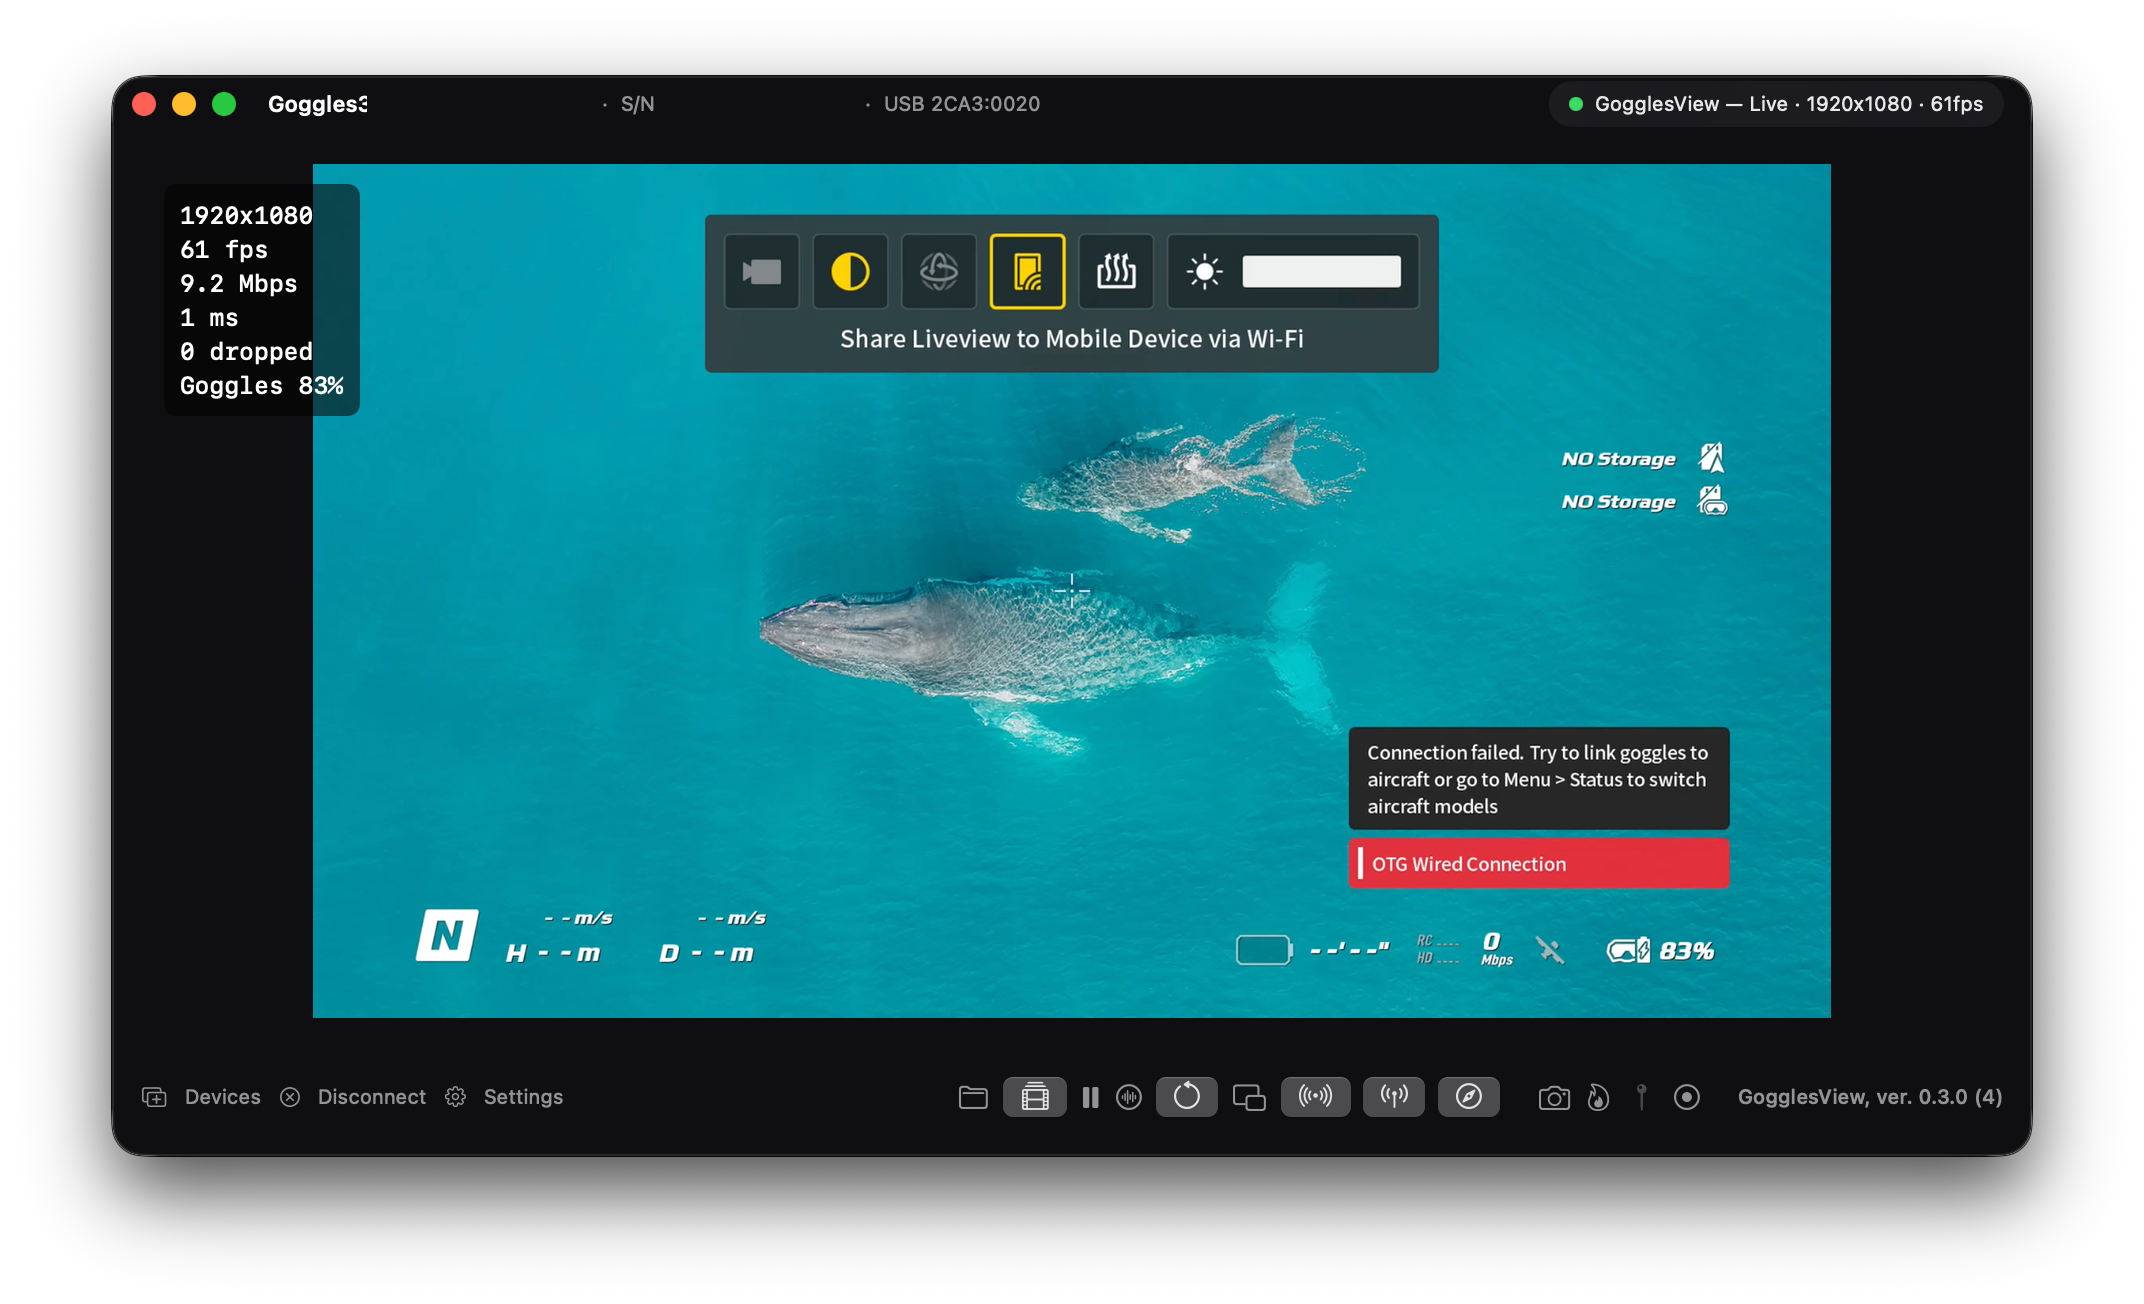
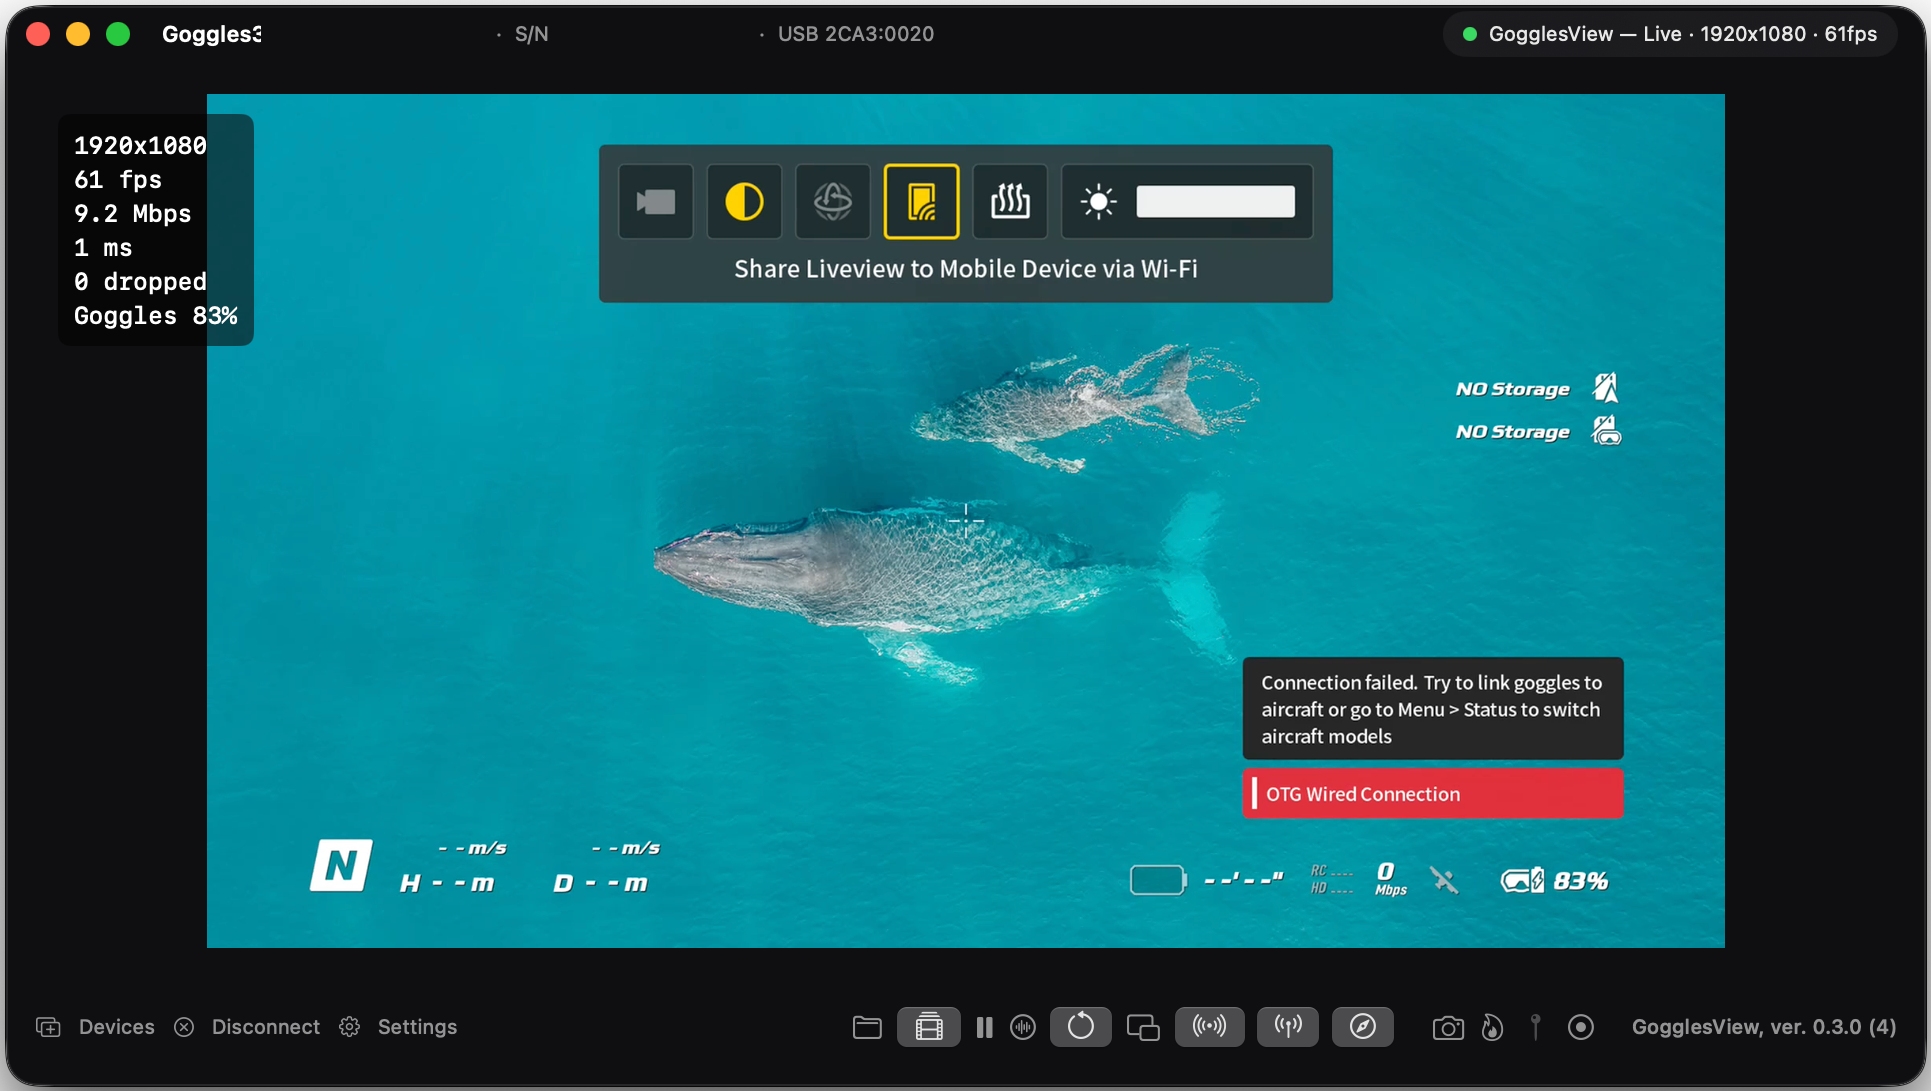
Website: add settings and waiting-for-keyframe screenshots, crop screenshot margins, tighten spacing

diff --git a/site/index.html b/site/index.html
@@ -35,8 +35,8 @@
     --t-xl: 2.5rem;
     --t-display: clamp(3.5rem, 8vw, 6.75rem);
 
-    --gap: 12px;
-    --r-panel: 20px;                    /* outer */
+    --gap: 10px;
+    --r-panel: 18px;                    /* outer */
     --r-inner: calc(var(--r-panel) - var(--gap));  /* concentric: outer minus gap */
     --r-tile: 14px;
 
@@ -72,7 +72,7 @@
   .top nav a:hover { color: var(--ink); text-decoration: underline; }
 
   /* hero: copy offset to the left and anchored low, the picture bleeding off the right edge */
-  .hero { min-height: min(calc(100dvh - 60px), 620px); padding-top: 56px; display: grid; grid-template-columns: minmax(0, 7fr) minmax(0, 5fr); gap: 48px; align-items: end; padding-bottom: 40px; }
+  .hero { min-height: min(calc(100dvh - 60px), 560px); padding-top: 40px; display: grid; grid-template-columns: minmax(0, 7fr) minmax(0, 5fr); gap: 48px; align-items: end; padding-bottom: 40px; }
   .hero h1 { font-size: var(--t-display); margin-bottom: 24px; }
   .hero .lede { font-size: var(--t-m); line-height: 1.4; max-width: 30ch; margin-bottom: 28px; }
   .dl { display: inline-flex; align-items: center; gap: 12px; background: var(--ink); color: var(--on-ink); font-weight: 500; text-decoration: none; padding: 14px 20px; border-radius: 10px; transition: background-color .15s; }
@@ -85,7 +85,7 @@
   .screen::after { content: ""; position: absolute; inset: 0; background: var(--grain-dark); mix-blend-mode: overlay; pointer-events: none; }
   .screen img { display: block; width: 100%; height: auto; border-radius: var(--r-inner); }
 
-  section { padding: 96px 0 0; }
+  section { padding: 72px 0 0; }
   h2 { font-size: var(--t-xl); margin-bottom: 20px; }
   @media (min-width: 900px) { h2 { font-size: 3.75rem; } }
 
@@ -130,6 +130,12 @@
   ol li::before { content: counter(s); font-family: "Big Shoulders Display", sans-serif; font-weight: 700; font-size: var(--t-l); line-height: 1.1; color: var(--rec); }
   code { font-family: "Geist Mono", ui-monospace, monospace; font-size: .9em; background: var(--shell-deep); padding: 1px 6px; border-radius: 4px; }
   .steps .screen { margin-right: 0; }
+  .steps.flip { grid-template-columns: minmax(0, 5fr) minmax(0, 6fr); }
+  .steps.flip .screen, .steps.flip .bare { order: -1; }
+  .bare img { display: block; width: 100%; height: auto; }
+  .more { padding-top: 56px; }
+  .more h3 { font-size: var(--t-xl); margin-bottom: 14px; }
+  .more p + p { margin-top: 12px; }
 
   /* limits */
   .limits { display: grid; grid-template-columns: minmax(0, 4fr) minmax(0, 7fr); gap: 56px; }
@@ -138,7 +144,7 @@
   .limits dt:first-child { margin-top: 0; }
   .limits dd { margin: 2px 0 0; color: var(--ink-soft); }
 
-  .foot { margin-top: 120px; background: var(--ink); color: var(--on-ink-dim); position: relative; }
+  .foot { margin-top: 88px; background: var(--ink); color: var(--on-ink-dim); position: relative; }
   .foot .page { padding-top: 40px; padding-bottom: 48px; display: grid; grid-template-columns: minmax(0, 1fr) auto; gap: 24px; font-size: var(--t-s); }
   .foot a { color: var(--on-ink); }
   .foot a:hover { color: #ff8a65; }
@@ -147,7 +153,8 @@
   @media (max-width: 820px) {
     .hero { grid-template-columns: 1fr; min-height: 0; padding-top: 32px; }
     .screen { margin-right: 0; }
-    .measure, .steps, .limits { grid-template-columns: 1fr; gap: 28px; margin-left: 0; }
+    .measure, .steps, .steps.flip, .limits { grid-template-columns: 1fr; gap: 28px; margin-left: 0; }
+    .steps.flip .screen, .steps.flip .bare { order: 0; }
     .a, .b, .c, .d, .e, .f { grid-column: span 6; grid-row: auto; }
     .top nav a:not(.keep) { display: none; }
     section { padding-top: 64px; }
@@ -181,7 +188,7 @@
         <a class="dl" id="dl" href="https://github.com/Kristian-Buriasco/gogglecast/releases/latest">Download GogglesView 0.4.0 (2.3 MB)</a>
         <a class="alt" href="https://github.com/Kristian-Buriasco/gogglecast">Free and GPL-3.0. Apple Silicon, macOS 14 or later. Read the source.</a>
       </div>
-      <div class="screen"><img src="images/live-view.png" alt="GogglesView window showing a live feed with the stats overlay" width="2144" height="1304"></div>
+      <div class="screen"><img src="images/live-view.png" alt="GogglesView window showing a live feed with the stats overlay" width="1931" height="1091"></div>
     </div>
 
     <section id="latency" aria-labelledby="latency-h">
@@ -256,6 +263,14 @@
           <p>A chrome-less capture window for Window Capture, optional keep-on-top, and a mini window. Plug in several goggles and each gets its own window and settings. The app checks GitHub for updates, verifies the checksum and signature, and installs them only when you are not recording.</p>
         </article>
       </div>
+      <div class="steps flip more">
+        <div class="bare"><img src="images/settings.png" alt="The Settings window, General tab, with a sidebar listing General, Display, Recording, Streaming and Advanced" width="1784" height="1384" loading="lazy"></div>
+        <div>
+          <h3>Settings in five tabs</h3>
+          <p>General, Display, Recording, Streaming and Advanced. Presets switch a whole set of options at once, and each pair of goggles can keep its own saved profile that applies when it connects.</p>
+          <p>The same window runs the update check, the diagnostics report and the latency benchmark.</p>
+        </div>
+      </div>
     </section>
 
     <section id="setup" aria-labelledby="setup-h">
@@ -269,7 +284,15 @@
             <li><span>Start Share Liveview on the goggles, pick them in the app.</span></li>
           </ol>
         </div>
-        <div class="screen"><img src="images/picker.png" alt="The goggles picker listing the connected pair" width="1664" height="1264" loading="lazy"></div>
+        <div class="screen"><img src="images/picker.png" alt="The goggles picker listing the connected pair" width="1451" height="1051" loading="lazy"></div>
+      </div>
+      <div class="steps flip more">
+        <div class="screen"><img src="images/waiting-keyframe.png" alt="The window showing a notice that it is waiting for a keyframe from the goggles" width="1931" height="1091" loading="lazy"></div>
+        <div>
+          <h3>If it says it's waiting for a keyframe</h3>
+          <p>The goggles send one full picture when Share Liveview starts and none after. If you connect late, the app has nothing to start from and says so.</p>
+          <p>On the goggles, switch Share Liveview to Mobile Device via Wi-Fi off and on again. That's a limit of the goggles' stream, not something the app can fix.</p>
+        </div>
       </div>
     </section>
 
